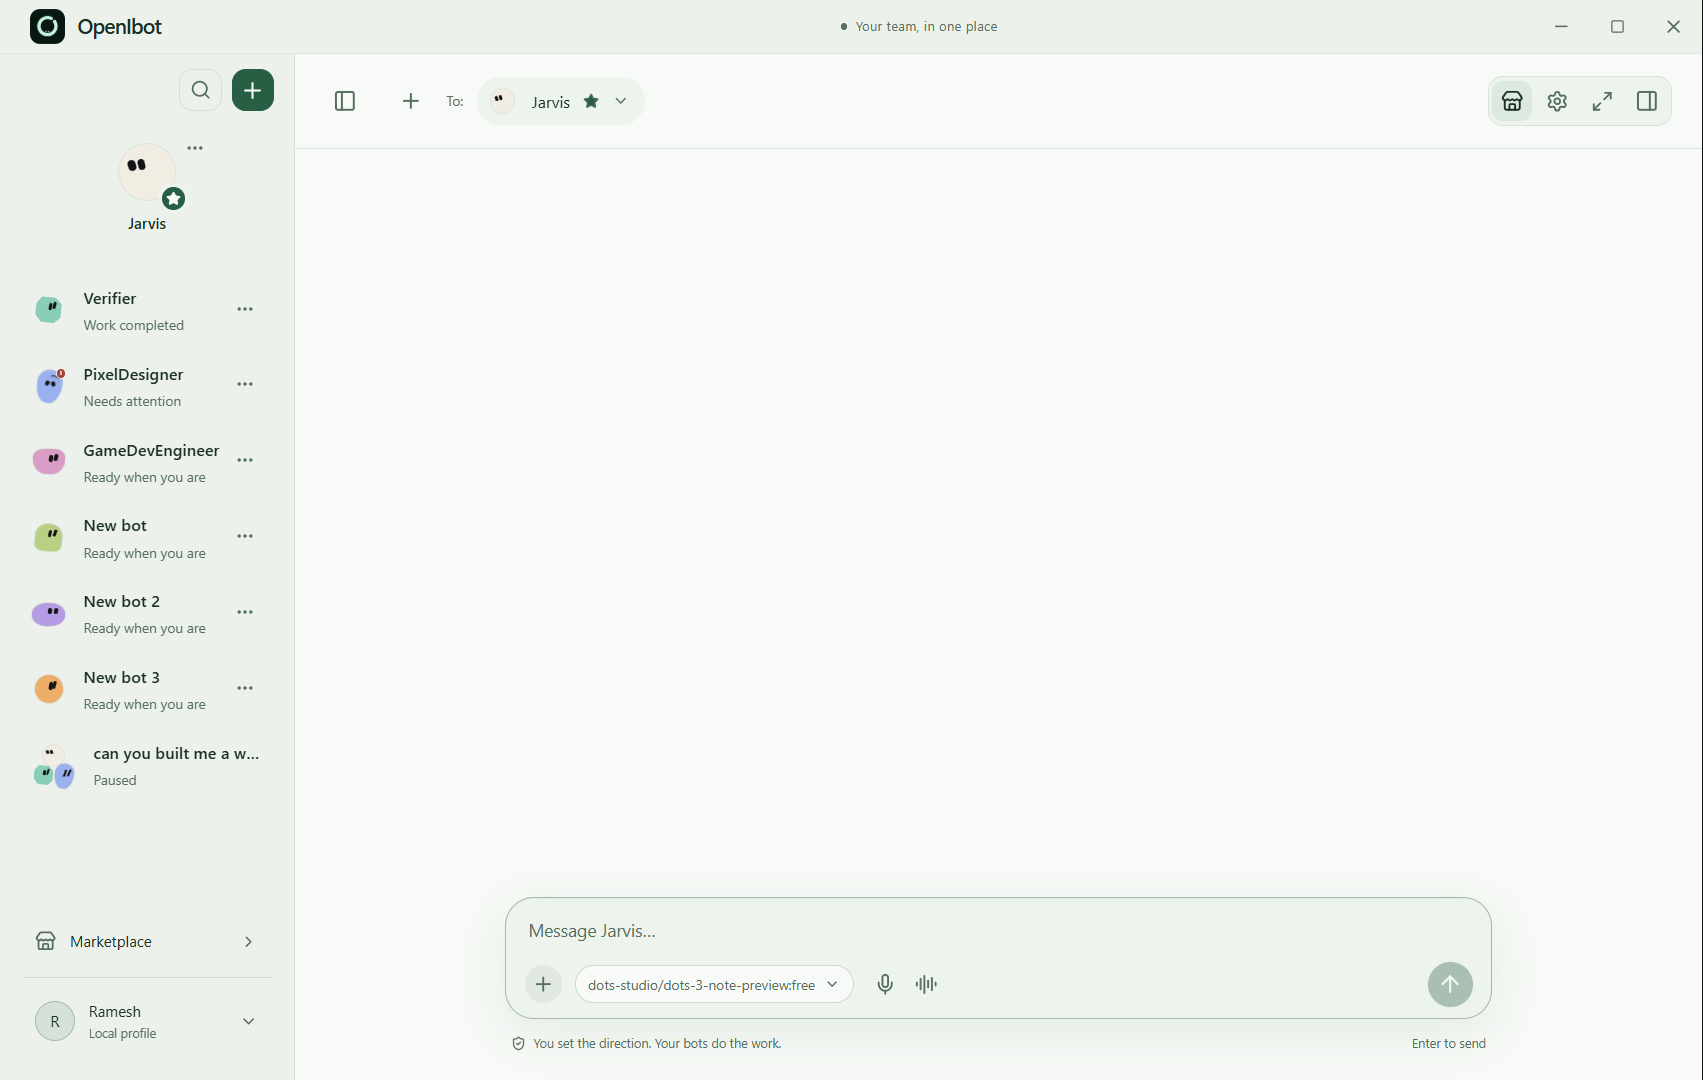
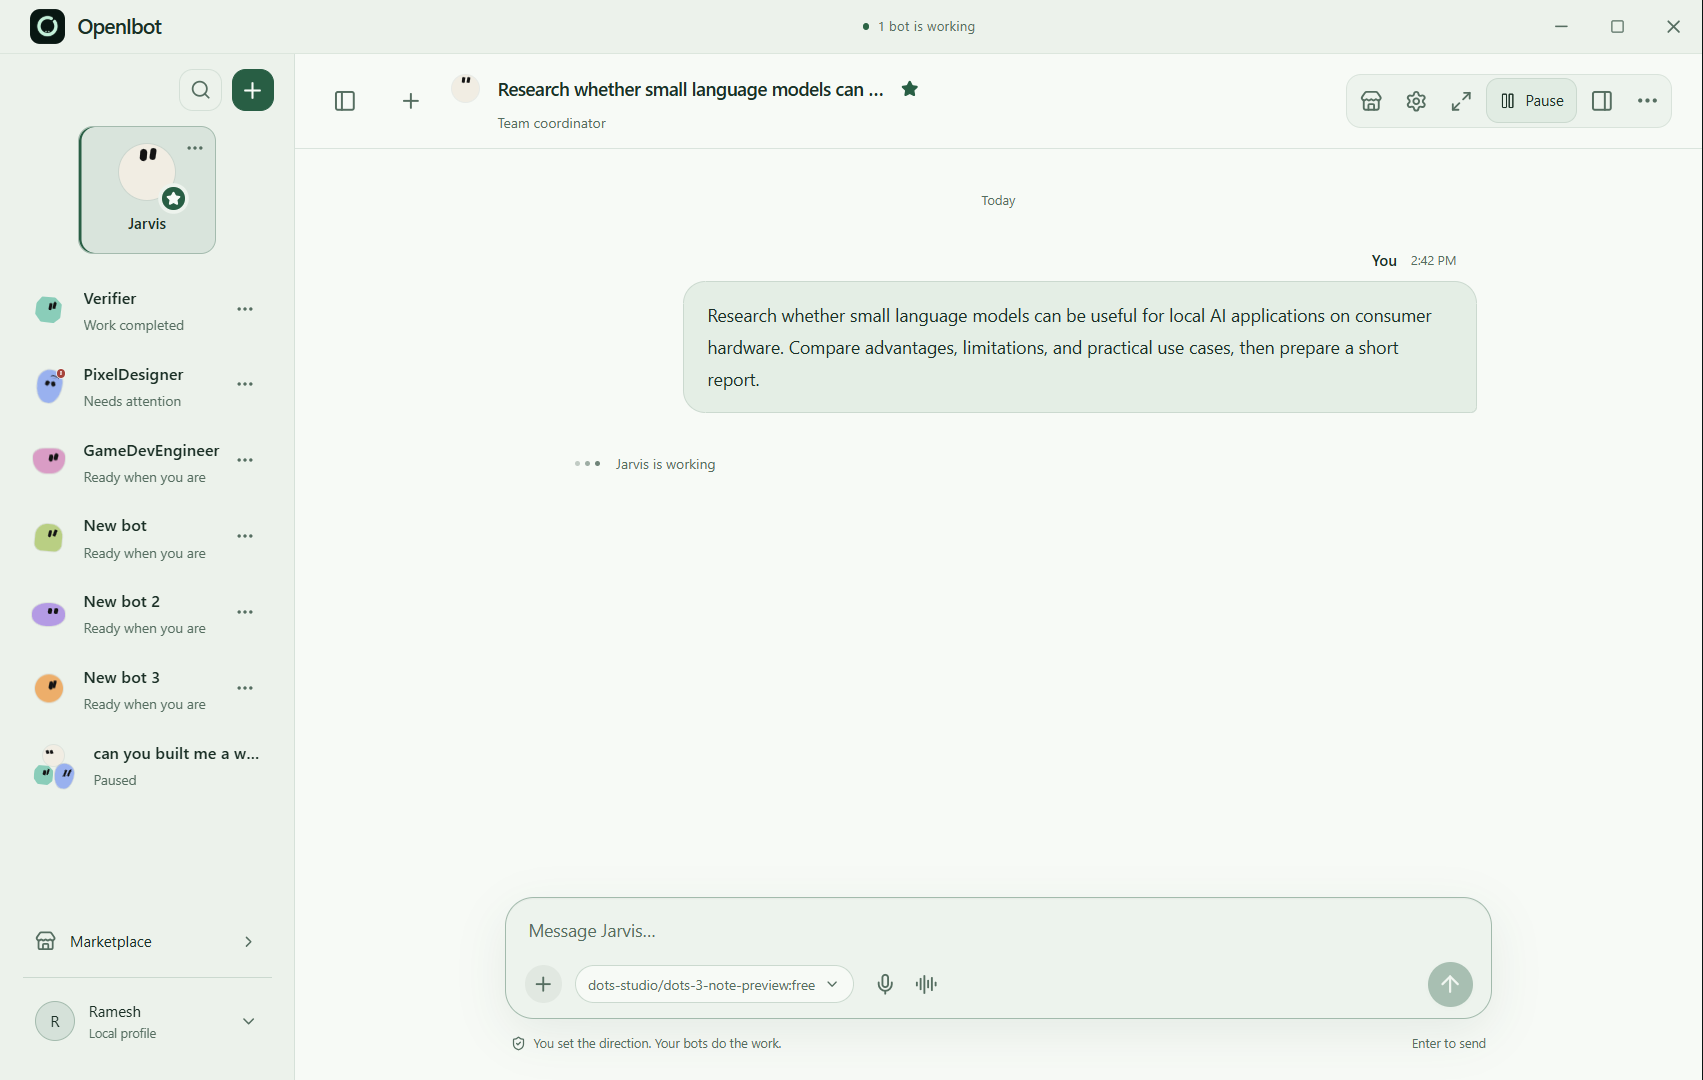
docs: replace OpenIbot screenshots with real product workflow

diff --git a/README.md b/README.md
@@ -55,15 +55,27 @@ flowchart LR
 
 ---
 
-## 📸 Screenshots
+## See OpenIbot in Action
 
-| Task Composer | Agent Collaboration |
-|:---:|:---:|
-| <img src="docs/assets/task-composer.png" alt="Task Composer" width="400"/> | <img src="docs/assets/agents-view.png" alt="Agents View" width="400"/> |
+### 1. Give OpenIbot a task
 
-| Workspace Graph | File Output |
-|:---:|:---:|
-| <img src="docs/assets/graph-view.png" alt="Graph View" width="400"/> | <img src="docs/assets/files-view.png" alt="Files View" width="400"/> |
+![OpenIbot Task Composer](docs/assets/task-composer.png)
+
+Describe your goal, choose a model, attach files or tools when needed, and start the task.
+
+### 2. Agents get to work
+
+![OpenIbot Agents](docs/assets/agents-view.png)
+
+OpenIbot coordinates the agents involved in the task and lets you inspect their progress in the chat and agent sidebar.
+
+### 3. Review the result
+
+![OpenIbot Completed Task](docs/assets/completed-task.png)
+
+Review the completed result. Files generated by the agents are saved in their isolated Linux computer workspaces, accessible via the Bot Details panel.
+
+*Note: Graph visualization of multi-agent workflows is currently **Planned/Experimental** and will be added in a future release.*
 
 ---
 
